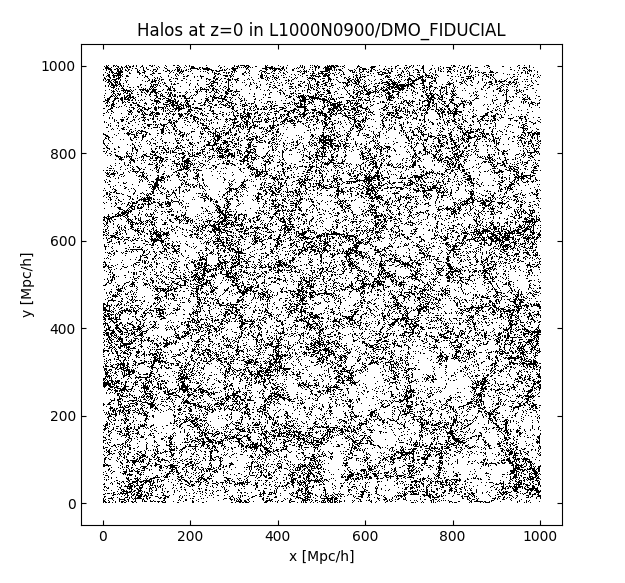
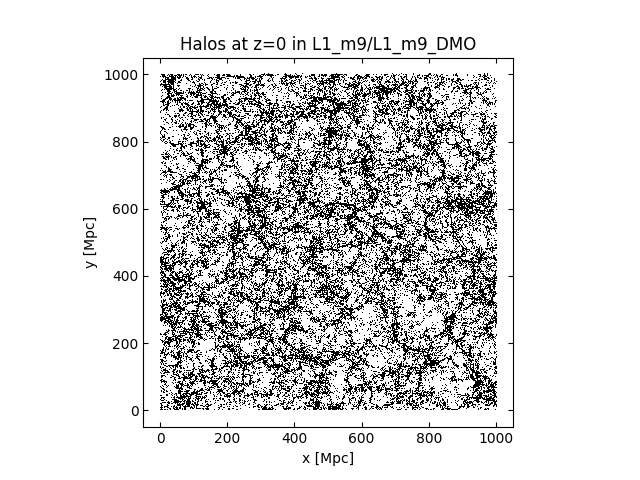
Correct labels in SOAP example

diff --git a/source/service_docs/python_examples.rst b/source/service_docs/python_examples.rst
@@ -55,11 +55,11 @@ Plotting the positions
 We can then make a plot of halos in a slice through the volume using matplotlib::
 
     import matplotlib.pyplot as plt
-    to_plot = halo_pos[:,2] < 50.0 # Plot a 50Mpc/h slice in the x-y plane
+    to_plot = halo_pos[:,2] < 50.0 # Plot a 50Mpc slice in the x-y plane
     plt.plot(halo_pos[to_plot,0], halo_pos[to_plot,1], "k,", rasterized=True)
     plt.gca().set_aspect("equal")
-    plt.xlabel("x [Mpc/h]")
-    plt.ylabel("y [Mpc/h]")
+    plt.xlabel("x [Mpc]")
+    plt.ylabel("y [Mpc]")
     plt.title("Halos at z=0 in L1_m9/L1_m9_DMO")
     plt.show()
 
